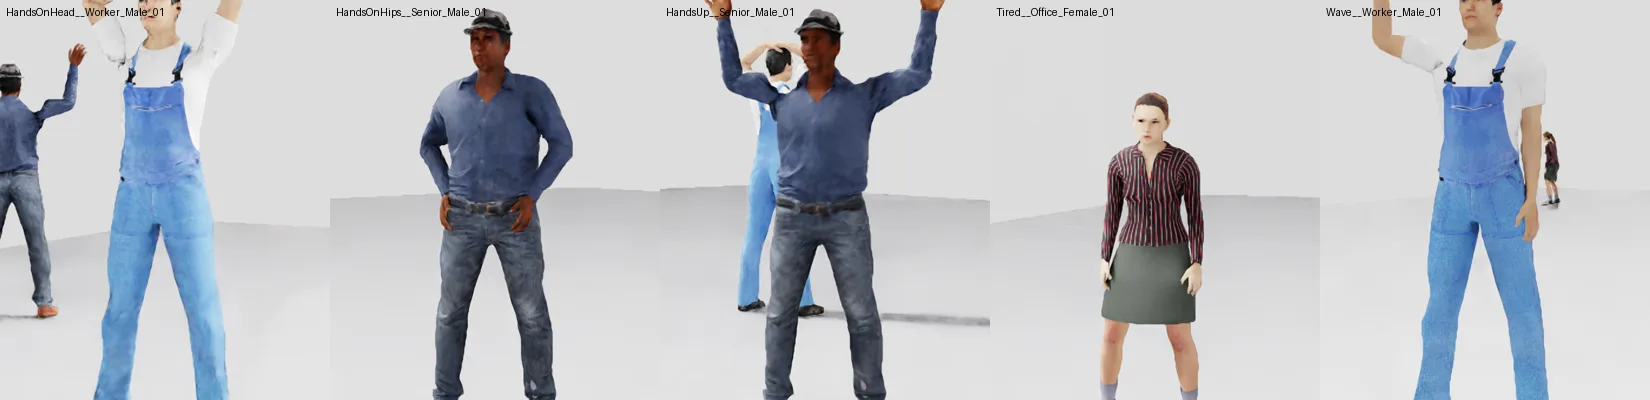
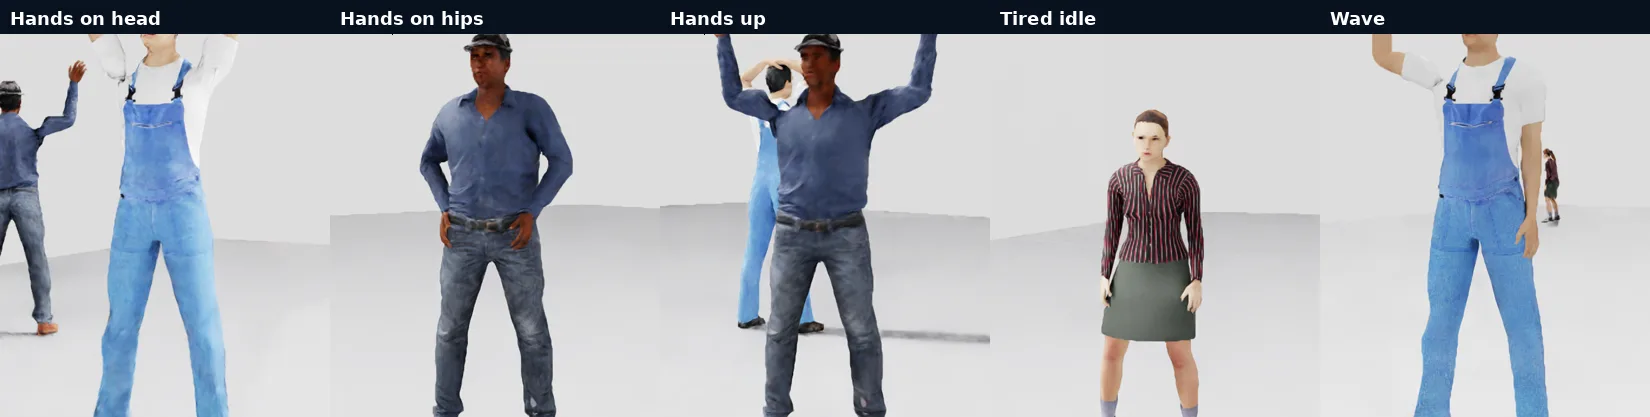
Clean labels on actions image, soften SDG claim
Replace output-file labels (HandsOnHead__Worker_Male_01, ...) with clean
action names on a label band, and say SDG 'helps solve' the data problem.

diff --git a/src/pages/isaac-sim-synthetic-human-data.md b/src/pages/isaac-sim-synthetic-human-data.md
@@ -12,7 +12,7 @@ date: "2026-11-07"
 
 Robots that work around people need to see people: to detect them, estimate their pose and understand what they are doing. Training those perception models needs a lot of labelled human data. Real footage is slow to collect, expensive to label, raises privacy concerns and rarely covers enough body types, clothing and actions.
 
-**Synthetic data generation (SDG)** solves this. You build digital humans in simulation, animate them and let the simulator produce perfectly labelled images. We recently built a complete human SDG pipeline on **NVIDIA Isaac Sim 6.0.1**, and this post shows what it does.
+**Synthetic data generation (SDG)** helps solve this. You build digital humans in simulation, animate them and let the simulator produce perfectly labelled images. We recently built a complete human SDG pipeline on **NVIDIA Isaac Sim 6.0.1**, and this post shows what it does.
 
 ## The pipeline at a glance
 
